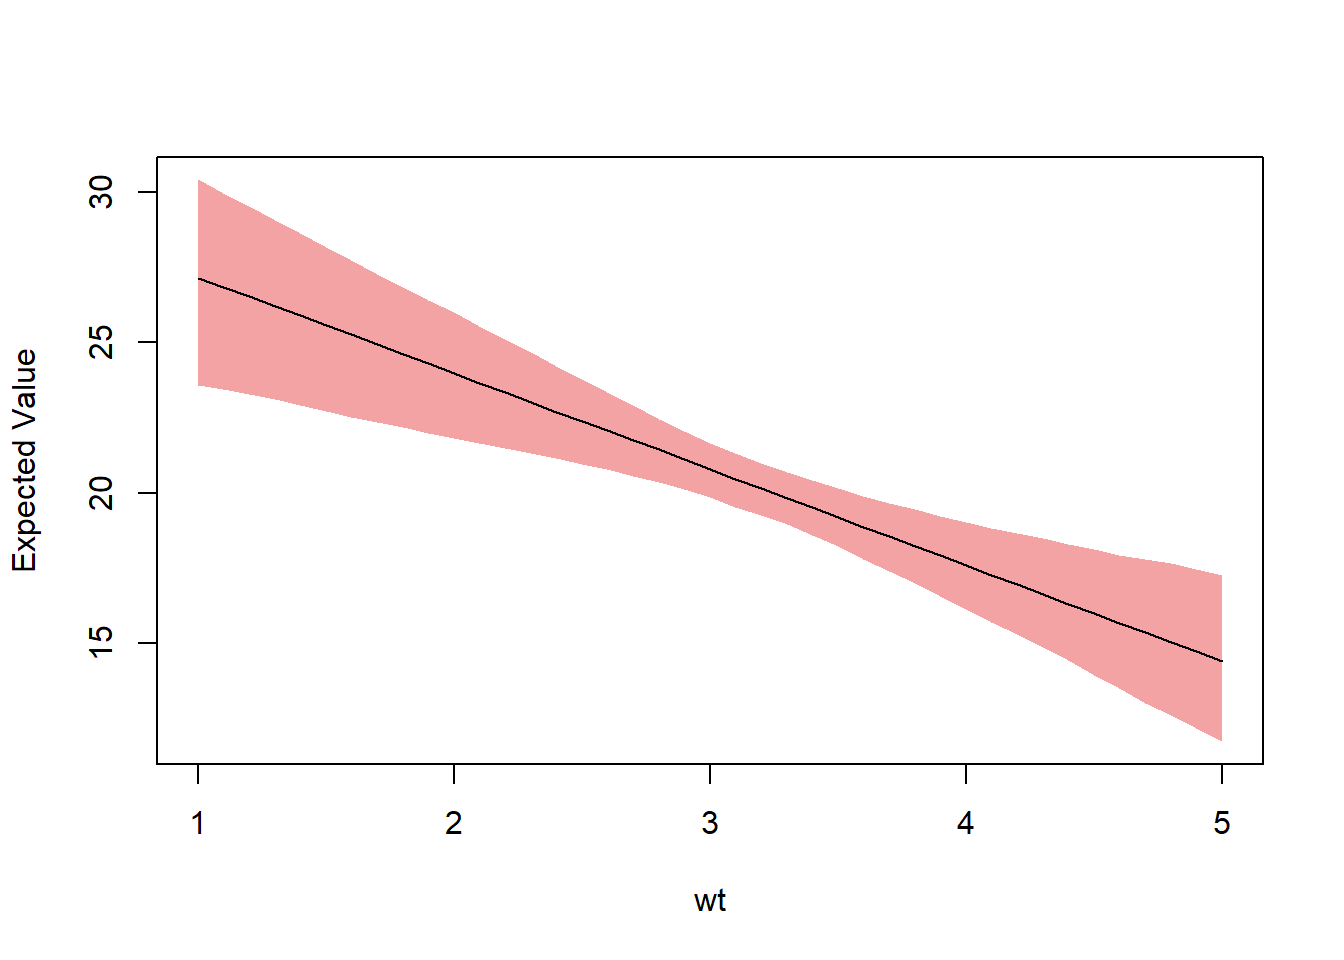
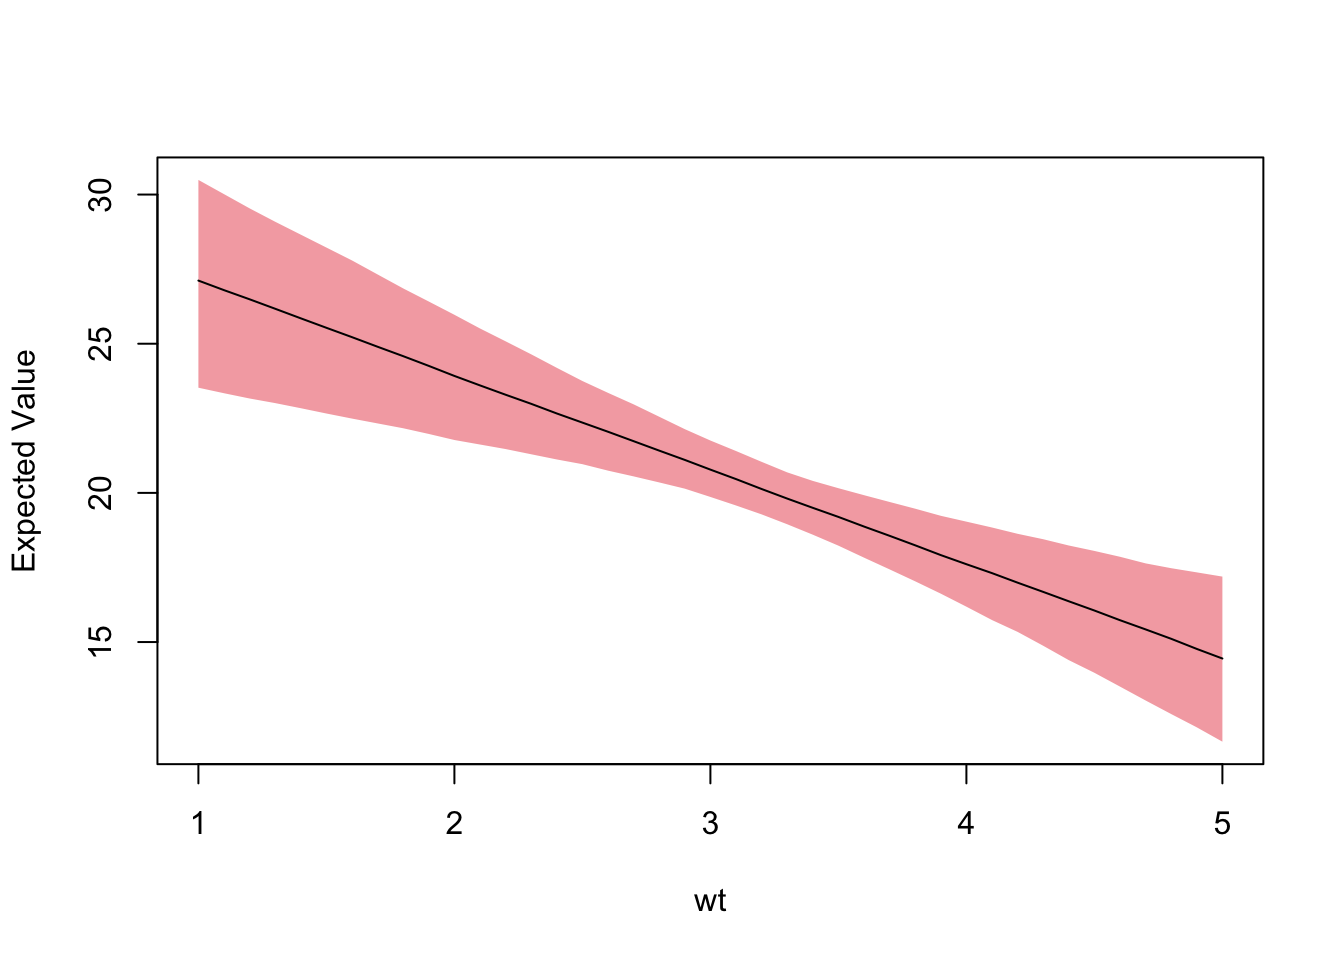
adding flexible arg parsing for plot function. Also changed some of the defaults to fix issue # 5

diff --git a/docs/articles/binary_models.html b/docs/articles/binary_models.html
@@ -77,7 +77,7 @@
     <div class="page-header toc-ignore">
       <h1>Binary Models</h1>
             
-            <h4 class="date">2017-08-30</h4>
+            <h4 class="date">2017-08-31</h4>
           </div>
 
     
@@ -85,7 +85,7 @@
 <div class="contents">
 <div class="sourceCode"><pre class="sourceCode r"><code class="sourceCode r"><span class="kw">library</span>(foreign)
 <span class="kw">library</span>(regsim)</code></pre></div>
-<div class="sourceCode"><pre class="sourceCode r"><code class="sourceCode r">bes &lt;-<span class="st"> </span><span class="kw">read.dta</span>(<span class="st">"http://uclspp.github.io/PUBLG100/data/bes.dta"</span>)
+<div class="sourceCode"><pre class="sourceCode r"><code class="sourceCode r">bes &lt;-<span class="st"> </span><span class="kw"><a href="http://www.rdocumentation.org/packages/foreign/topics/read.dta">read.dta</a></span>(<span class="st">"http://uclspp.github.io/PUBLG100/data/bes.dta"</span>)
 
 bes<span class="op">$</span>Gender &lt;-<span class="st"> </span><span class="kw">factor</span>(bes<span class="op">$</span>Gender, <span class="dt">levels =</span> <span class="kw">c</span>(<span class="dv">0</span>, <span class="dv">1</span>), <span class="dt">labels =</span> <span class="kw">c</span>(<span class="st">"Female"</span>, <span class="st">"Male"</span>))</code></pre></div>
 <div class="sourceCode"><pre class="sourceCode r"><code class="sourceCode r">model &lt;-<span class="st"> </span><span class="kw">glm</span>(Turnout <span class="op">~</span><span class="st"> </span>Income <span class="op">+</span><span class="st"> </span>polinfoindex <span class="op">+</span><span class="st"> </span>Influence <span class="op">+</span><span class="st"> </span>Gender <span class="op">+</span><span class="st"> </span>Age <span class="op">+</span><span class="st"> </span>
@@ -142,7 +142,7 @@ sim &lt;-<span class="st"> </span><span class="kw"><a href="../reference/regsim.
 ## p1         0 0.008061408      0
 ## 
 ##         mean         sd      2.5%       50%     97.5%
-## p1 0.7617262 0.01584535 0.7287917 0.7619925 0.7918409
+## p1 0.7608887 0.01698668 0.7242785 0.7608693 0.7922349
 ## ------------------------------------------------
 ## 
 ##      Income polinfoindex Influence GenderMale      Age edu15 edu17 edu18
@@ -150,14 +150,14 @@ sim &lt;-<span class="st"> </span><span class="kw"><a href="../reference/regsim.
 ##    edu19plus   in_school in_uni
 ## p2         0 0.008061408      0
 ## 
-##         mean         sd      2.5%       50%     97.5%
-## p2 0.8200499 0.01344603 0.7920209 0.8206643 0.8449819
+##         mean         sd     2.5%       50%     97.5%
+## p2 0.8196473 0.01319329 0.793433 0.8201028 0.8435491
 ## ------------------------------------------------
 ## 
 ## First Differences:
 ## 
 ##          mean         sd       2.5%        50%      97.5%
-## fd 0.05832375 0.01306054 0.03333586 0.05821718 0.08374781</code></pre>
+## fd 0.05875863 0.01387454 0.03126619 0.05877985 0.08428253</code></pre>
 <div class="sourceCode"><pre class="sourceCode r"><code class="sourceCode r"><span class="kw">summary</span>(sim, <span class="dt">detail =</span> <span class="ot">TRUE</span>, <span class="dt">rotate =</span> <span class="ot">TRUE</span>)</code></pre></div>
 <pre><code>##                 Profile 1
 ## Income        5.321557318
@@ -173,7 +173,7 @@ sim &lt;-<span class="st"> </span><span class="kw"><a href="../reference/regsim.
 ## in_uni        0.000000000
 ## 
 ##         mean         sd      2.5%       50%     97.5%
-## p1 0.7617262 0.01584535 0.7287917 0.7619925 0.7918409
+## p1 0.7608887 0.01698668 0.7242785 0.7608693 0.7922349
 ## ------------------------------------------------
 ## 
 ##                 Profile 2
@@ -189,14 +189,14 @@ sim &lt;-<span class="st"> </span><span class="kw"><a href="../reference/regsim.
 ## in_school     0.008061408
 ## in_uni        0.000000000
 ## 
-##         mean         sd      2.5%       50%     97.5%
-## p2 0.8200499 0.01344603 0.7920209 0.8206643 0.8449819
+##         mean         sd     2.5%       50%     97.5%
+## p2 0.8196473 0.01319329 0.793433 0.8201028 0.8435491
 ## ------------------------------------------------
 ## 
 ## First Differences:
 ## 
 ##          mean         sd       2.5%        50%      97.5%
-## fd 0.05832375 0.01306054 0.03333586 0.05821718 0.08374781</code></pre>
+## fd 0.05875863 0.01387454 0.03126619 0.05877985 0.08428253</code></pre>
 <div class="sourceCode"><pre class="sourceCode r"><code class="sourceCode r">x &lt;-<span class="st"> </span><span class="kw">list</span>(
   <span class="dt">Gender =</span> <span class="kw">c</span>(<span class="st">"Male"</span>, <span class="st">"Female"</span>),
   <span class="dt">Income =</span> <span class="dv">1</span><span class="op">:</span><span class="dv">13</span>
@@ -233,59 +233,59 @@ sim &lt;-<span class="st"> </span><span class="kw"><a href="../reference/regsim.
 ## 25     13     5.409277  3.608508          1 50.91853     0     0     0
 ## 26     13     5.409277  3.608508          0 50.91853     0     0     0
 ##    edu19plus   in_school in_uni      mean         sd      2.5%       50%
-## 1          0 0.008061408      0 0.6204613 0.02828394 0.5642415 0.6212348
-## 2          0 0.008061408      0 0.7005216 0.02322349 0.6548985 0.7013361
-## 3          0 0.008061408      0 0.6560266 0.02402570 0.6081801 0.6565356
-## 4          0 0.008061408      0 0.7318693 0.01942759 0.6923681 0.7322388
-## 5          0 0.008061408      0 0.6899353 0.02052807 0.6486668 0.6904577
-## 6          0 0.008061408      0 0.7610397 0.01659087 0.7283328 0.7613239
-## 7          0 0.008061408      0 0.7219066 0.01800899 0.6867724 0.7222913
-## 8          0 0.008061408      0 0.7879262 0.01478235 0.7579538 0.7877620
-## 9          0 0.008061408      0 0.7517381 0.01654070 0.7204760 0.7520709
-## 10         0 0.008061408      0 0.8124928 0.01389252 0.7835548 0.8125961
-## 11         0 0.008061408      0 0.7793058 0.01598107 0.7491084 0.7800005
-## 12         0 0.008061408      0 0.8347647 0.01365111 0.8070607 0.8351566
-## 13         0 0.008061408      0 0.8045579 0.01602428 0.7737455 0.8052081
-## 14         0 0.008061408      0 0.8548156 0.01374634 0.8248284 0.8556340
-## 15         0 0.008061408      0 0.8275058 0.01634370 0.7954272 0.8286996
-## 16         0 0.008061408      0 0.8727562 0.01393313 0.8422728 0.8737751
-## 17         0 0.008061408      0 0.8482123 0.01669454 0.8141320 0.8491894
-## 18         0 0.008061408      0 0.8887222 0.01406277 0.8581057 0.8896025
-## 19         0 0.008061408      0 0.8667793 0.01693265 0.8304224 0.8678587
-## 20         0 0.008061408      0 0.9028648 0.01406387 0.8723432 0.9038207
-## 21         0 0.008061408      0 0.8833367 0.01699158 0.8455064 0.8845032
-## 22         0 0.008061408      0 0.9153418 0.01391432 0.8846521 0.9164420
-## 23         0 0.008061408      0 0.8980313 0.01685440 0.8594131 0.8990839
-## 24         0 0.008061408      0 0.9263114 0.01361965 0.8957293 0.9275998
-## 25         0 0.008061408      0 0.9110189 0.01653231 0.8720109 0.9122560
-## 26         0 0.008061408      0 0.9359277 0.01319916 0.9063010 0.9372496
+## 1          0 0.008061408      0 0.6226457 0.02868319 0.5651322 0.6235348
+## 2          0 0.008061408      0 0.7012759 0.02347646 0.6569364 0.7011447
+## 3          0 0.008061408      0 0.6581214 0.02459737 0.6082914 0.6592494
+## 4          0 0.008061408      0 0.7325834 0.01967503 0.6942737 0.7321920
+## 5          0 0.008061408      0 0.6919254 0.02115418 0.6478733 0.6925908
+## 6          0 0.008061408      0 0.7617149 0.01670550 0.7275506 0.7618026
+## 7          0 0.008061408      0 0.7237828 0.01854069 0.6860226 0.7249940
+## 8          0 0.008061408      0 0.7885656 0.01464526 0.7579716 0.7887459
+## 9          0 0.008061408      0 0.7534966 0.01683293 0.7177488 0.7543736
+## 10         0 0.008061408      0 0.8131004 0.01343908 0.7846449 0.8137629
+## 11         0 0.008061408      0 0.7809468 0.01594526 0.7486748 0.7815215
+## 12         0 0.008061408      0 0.8353445 0.01289214 0.8083778 0.8360457
+## 13         0 0.008061408      0 0.8060846 0.01565173 0.7744840 0.8068272
+## 14         0 0.008061408      0 0.8553714 0.01274295 0.8295495 0.8560486
+## 15         0 0.008061408      0 0.8289234 0.01568173 0.7975249 0.8297185
+## 16         0 0.008061408      0 0.8732911 0.01275892 0.8485850 0.8741233
+## 17         0 0.008061408      0 0.8495270 0.01581018 0.8172861 0.8500954
+## 18         0 0.008061408      0 0.8892386 0.01278268 0.8642521 0.8902365
+## 19         0 0.008061408      0 0.8679980 0.01589061 0.8345725 0.8687887
+## 20         0 0.008061408      0 0.9033641 0.01272871 0.8779474 0.9042684
+## 21         0 0.008061408      0 0.8844660 0.01584639 0.8512578 0.8849568
+## 22         0 0.008061408      0 0.9158249 0.01256202 0.8909982 0.9165971
+## 23         0 0.008061408      0 0.8990778 0.01564952 0.8656541 0.8999148
+## 24         0 0.008061408      0 0.9267786 0.01227799 0.9014441 0.9275146
+## 25         0 0.008061408      0 0.9119886 0.01530155 0.8787298 0.9130440
+## 26         0 0.008061408      0 0.9363788 0.01188818 0.9120347 0.9369920
 ##        97.5%
-## 1  0.6749876
-## 2  0.7465827
-## 3  0.7013507
-## 4  0.7699904
-## 5  0.7303545
-## 6  0.7921957
-## 7  0.7559118
-## 8  0.8158567
-## 9  0.7831234
-## 10 0.8393809
-## 11 0.8088725
-## 12 0.8599159
-## 13 0.8336753
-## 14 0.8801221
-## 15 0.8572589
-## 16 0.8978564
-## 17 0.8783284
-## 18 0.9137109
-## 19 0.8969902
-## 20 0.9279262
-## 21 0.9130307
-## 22 0.9398543
-## 23 0.9270429
-## 24 0.9498257
-## 25 0.9389617
-## 26 0.9580895</code></pre>
+## 1  0.6787708
+## 2  0.7459261
+## 3  0.7054264
+## 4  0.7701262
+## 5  0.7314395
+## 6  0.7937029
+## 7  0.7572911
+## 8  0.8161074
+## 9  0.7825313
+## 10 0.8375499
+## 11 0.8086360
+## 12 0.8593499
+## 13 0.8328985
+## 14 0.8791223
+## 15 0.8565168
+## 16 0.8961423
+## 17 0.8777355
+## 18 0.9117060
+## 19 0.8961745
+## 20 0.9253939
+## 21 0.9118109
+## 22 0.9374421
+## 23 0.9268180
+## 24 0.9477134
+## 25 0.9386116
+## 26 0.9564844</code></pre>
 <div class="sourceCode"><pre class="sourceCode r"><code class="sourceCode r"><span class="kw">plot</span>(sim, <span class="op">~</span>Income <span class="op">+</span><span class="st"> </span>GenderMale, 
      <span class="dt">ylab =</span> <span class="st">"Predicted Probability of Voting"</span>,
      <span class="dt">main =</span> <span class="st">"Effect of Income by Gender"</span>)</code></pre></div>

diff --git a/docs/articles/interaction_terms.html b/docs/articles/interaction_terms.html
@@ -77,7 +77,7 @@
     <div class="page-header toc-ignore">
       <h1>Interaction Terms</h1>
             
-            <h4 class="date">2017-08-30</h4>
+            <h4 class="date">2017-08-31</h4>
           </div>
 
     
@@ -86,7 +86,7 @@
 <div class="sourceCode"><pre class="sourceCode r"><code class="sourceCode r"><span class="kw">library</span>(foreign)
 <span class="kw">library</span>(regsim)
 
-world_data &lt;-<span class="st"> </span><span class="kw">read.dta</span>(<span class="st">"http://uclspp.github.io/PUBLG100/data/QoG2012.dta"</span>)</code></pre></div>
+world_data &lt;-<span class="st"> </span><span class="kw"><a href="http://www.rdocumentation.org/packages/foreign/topics/read.dta">read.dta</a></span>(<span class="st">"http://uclspp.github.io/PUBLG100/data/QoG2012.dta"</span>)</code></pre></div>
 <div class="sourceCode"><pre class="sourceCode r"><code class="sourceCode r">model &lt;-<span class="st"> </span><span class="kw">lm</span>(undp_hdi <span class="op">~</span><span class="st"> </span>wbgi_cce <span class="op">+</span><span class="st"> </span>former_col <span class="op">+</span><span class="st"> </span>wbgi_cce<span class="op">:</span>former_col, <span class="dt">data =</span> world_data)
 <span class="kw">summary</span>(model)</code></pre></div>
 <pre><code>## 
@@ -124,7 +124,7 @@ sim &lt;-<span class="st"> </span><span class="kw"><a href="../reference/regsim.
 ## wbgi_cce:former_col         0
 ## 
 ##         mean         sd      2.5%       50%     97.5%
-## p1 0.6266142 0.03538695 0.5595483 0.6264291 0.6972951
+## p1 0.6284438 0.03788442 0.5523543 0.6291492 0.7049955
 ## ------------------------------------------------
 ## 
 ##                     Profile 2
@@ -132,8 +132,8 @@ sim &lt;-<span class="st"> </span><span class="kw"><a href="../reference/regsim.
 ## former_col                  1
 ## wbgi_cce:former_col        -2
 ## 
-##         mean         sd      2.5%      50%     97.5%
-## p2 0.4063182 0.02726686 0.3536123 0.406032 0.4593417
+##         mean         sd      2.5%       50%     97.5%
+## p2 0.4072759 0.02877629 0.3532705 0.4066569 0.4643222
 ## ------------------------------------------------
 ## 
 ##                     Profile 3
@@ -141,8 +141,8 @@ sim &lt;-<span class="st"> </span><span class="kw"><a href="../reference/regsim.
 ## former_col                  0
 ## wbgi_cce:former_col         0
 ## 
-##         mean         sd      2.5%       50%    97.5%
-## p3 0.7059609 0.02459909 0.6599244 0.7063038 0.753591
+##         mean         sd     2.5%       50%     97.5%
+## p3 0.7070516 0.02583444 0.657238 0.7078147 0.7577875
 ## ------------------------------------------------
 ## 
 ##                     Profile 4
@@ -151,7 +151,7 @@ sim &lt;-<span class="st"> </span><span class="kw"><a href="../reference/regsim.
 ## wbgi_cce:former_col        -1
 ## 
 ##         mean         sd      2.5%       50%     97.5%
-## p4 0.5382061 0.01530329 0.5067478 0.5383193 0.5686521
+## p4 0.5388138 0.01586726 0.5096198 0.5383758 0.5703242
 ## ------------------------------------------------
 ## 
 ##                     Profile 5
@@ -160,7 +160,7 @@ sim &lt;-<span class="st"> </span><span class="kw"><a href="../reference/regsim.
 ## wbgi_cce:former_col         0
 ## 
 ##         mean         sd      2.5%       50%     97.5%
-## p5 0.7853076 0.01706315 0.7533196 0.7859764 0.8184457
+## p5 0.7856594 0.01692947 0.7526462 0.7861051 0.8181337
 ## ------------------------------------------------
 ## 
 ##                     Profile 6
@@ -168,8 +168,8 @@ sim &lt;-<span class="st"> </span><span class="kw"><a href="../reference/regsim.
 ## former_col                  1
 ## wbgi_cce:former_col         0
 ## 
-##         mean         sd     2.5%       50%     97.5%
-## p6 0.6700939 0.01208698 0.645883 0.6702557 0.6939518
+##         mean         sd      2.5%       50%     97.5%
+## p6 0.6703517 0.01212568 0.6458693 0.6709581 0.6931247
 ## ------------------------------------------------
 ## 
 ##                     Profile 7
@@ -178,7 +178,7 @@ sim &lt;-<span class="st"> </span><span class="kw"><a href="../reference/regsim.
 ## wbgi_cce:former_col         0
 ## 
 ##         mean         sd      2.5%       50%     97.5%
-## p7 0.8646542 0.01761659 0.8290856 0.8652686 0.8994191
+## p7 0.8642672 0.01711128 0.8305272 0.8645465 0.8979881
 ## ------------------------------------------------
 ## 
 ##                     Profile 8
@@ -187,7 +187,7 @@ sim &lt;-<span class="st"> </span><span class="kw"><a href="../reference/regsim.
 ## wbgi_cce:former_col         1
 ## 
 ##         mean         sd      2.5%       50%     97.5%
-## p8 0.8019817 0.02189051 0.7585195 0.8011141 0.8446021
+## p8 0.8018897 0.02266851 0.7562543 0.8028075 0.8475378
 ## ------------------------------------------------
 ## 
 ##                     Profile 9
@@ -195,8 +195,8 @@ sim &lt;-<span class="st"> </span><span class="kw"><a href="../reference/regsim.
 ## former_col                  0
 ## wbgi_cce:former_col         0
 ## 
-##         mean         sd      2.5%       50%     97.5%
-## p9 0.9440009 0.02574285 0.8936403 0.9446452 0.9910607
+##        mean         sd      2.5%       50%     97.5%
+## p9 0.942875 0.02619131 0.8900567 0.9425533 0.9937283
 ## ------------------------------------------------
 ## 
 ##                     Profile 10
@@ -205,7 +205,7 @@ sim &lt;-<span class="st"> </span><span class="kw"><a href="../reference/regsim.
 ## wbgi_cce:former_col          2
 ## 
 ##          mean         sd      2.5%       50%    97.5%
-## p10 0.9338695 0.03512107 0.8628691 0.9337975 1.003138
+## p10 0.9334276 0.03677306 0.8619069 0.9339153 1.009735
 ## ------------------------------------------------
 ## 
 ##                     Profile 11
@@ -214,7 +214,7 @@ sim &lt;-<span class="st"> </span><span class="kw"><a href="../reference/regsim.
 ## wbgi_cce:former_col          0
 ## 
 ##         mean         sd      2.5%      50%    97.5%
-## p11 1.023348 0.03671787 0.9490115 1.024057 1.090207
+## p11 1.021483 0.03829065 0.9449612 1.021531 1.096842
 ## ------------------------------------------------
 ## 
 ##                     Profile 12
@@ -223,7 +223,7 @@ sim &lt;-<span class="st"> </span><span class="kw"><a href="../reference/regsim.
 ## wbgi_cce:former_col          3
 ## 
 ##         mean         sd      2.5%      50%    97.5%
-## p12 1.065757 0.04908136 0.9674464 1.065717 1.163683
+## p12 1.064966 0.05159673 0.9671594 1.064899 1.171362
 ## ------------------------------------------------</code></pre>
 <div class="sourceCode"><pre class="sourceCode r"><code class="sourceCode r"><span class="kw">plot</span>(sim, <span class="op">~</span>wbgi_cce <span class="op">+</span><span class="st"> </span>former_col, <span class="dt">xlab =</span> <span class="st">"Corruption Control"</span>)</code></pre></div>
 <p><img src="interaction_terms_files/figure-html/unnamed-chunk-4-1.png" width="672"></p>

diff --git a/docs/articles/regsim.html b/docs/articles/regsim.html
@@ -77,7 +77,7 @@
     <div class="page-header toc-ignore">
       <h1>Getting Started</h1>
             
-            <h4 class="date">2017-08-30</h4>
+            <h4 class="date">2017-08-31</h4>
           </div>
 
     

diff --git a/docs/articles/index.html b/docs/articles/index.html
@@ -96,7 +96,7 @@
       </header>
 
       <div class="page-header">
-  <h1>Articles <small>version&nbsp;0.1.1</small></h1>
+  <h1>Articles <small>version&nbsp;0.1.2</small></h1>
 </div>
 
 <div class="row">

diff --git a/docs/reference/index.html b/docs/reference/index.html
@@ -100,7 +100,7 @@
     <div class="page-header">
       <h1>
         Reference
-        <small>version&nbsp;0.1.1</small>
+        <small>version&nbsp;0.1.2</small>
       </h1>
     </div>
 
